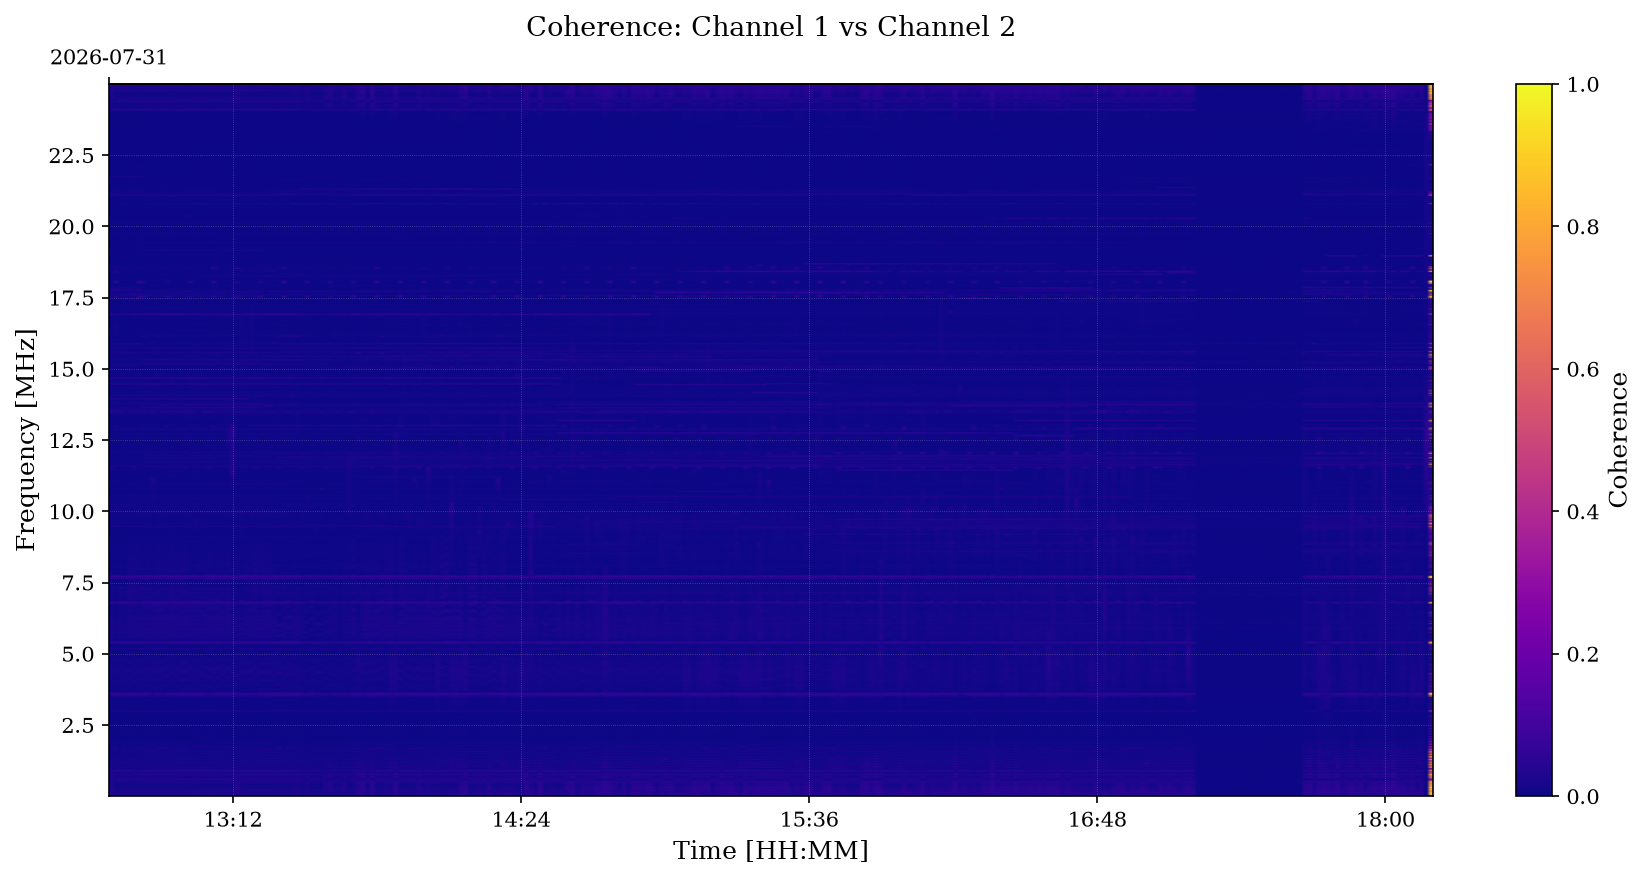
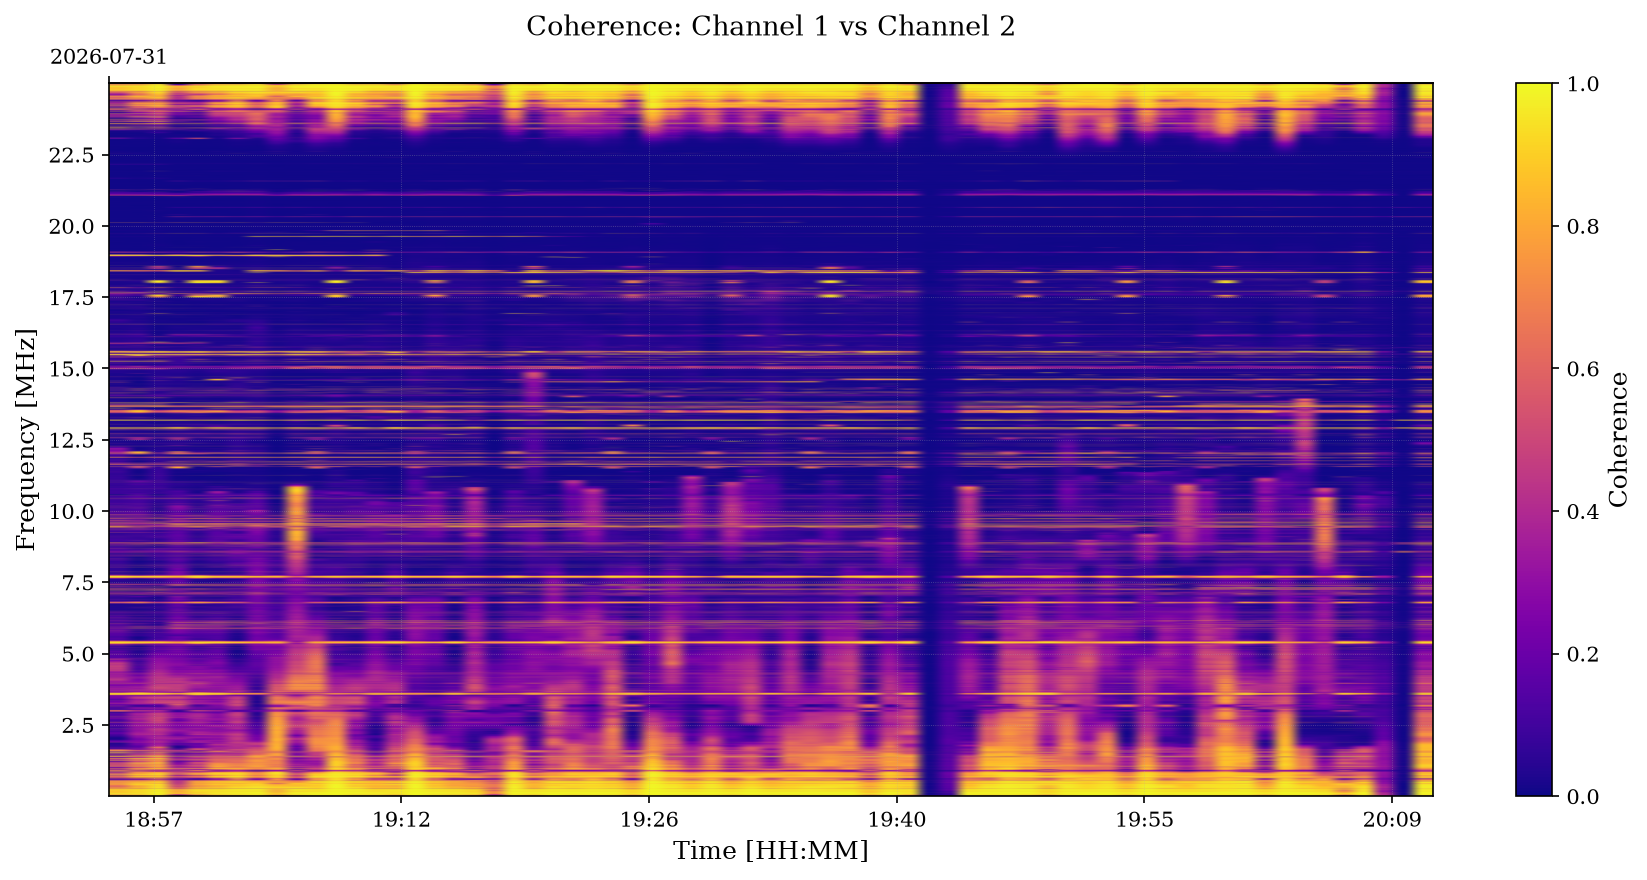
Update diagnostic plotting and processing: increase figure DPI, enable logging in LiveProcessor, refine cache key generation, and adjust coherence calculation comments

diff --git a/sblib/SignalBurner.py b/sblib/SignalBurner.py
@@ -207,19 +207,8 @@ class SignalBurner:
 
     # -- Cache helpers -------
     def _file_cache_key(self, p: Path) -> str:
-        """Unique-per-file cache key.
-
-        Using only ``Path.stem`` is NOT safe here: files coming from
-        different source directories (e.g. separate channels cha1/cha2/cha3)
-        can legitimately share the exact same basename/timestamp (that's
-        even required for pairing them by second). Using the bare stem as a
-        cache key then makes two *different* files collide onto the same
-        cache path, silently returning one channel's cached result for
-        another channel's request. We disambiguate by folding in a short
-        hash of the resolved parent directory.
-        """
-        parent_hash = hashlib.sha1(str(p.resolve().parent).encode()).hexdigest()[:8]
-        return f"{p.stem}_{parent_hash}"
+        """Unique key from the resolved absolute path."""
+        return hashlib.sha1(str(p.resolve()).encode()).hexdigest()[:16]
 
     def get_cache_file(self, h5_path: Path) -> Optional[Path]:
         """Return cache path for a single-file FFT (`.npy`)."""
@@ -236,16 +225,16 @@ class SignalBurner:
         )
 
     def _pair_base_path(self, p1: Path, p2: Path) -> Optional[Path]:
-        """Return base cache path (without extension) for a pair.
-        The actual files will be <base>.npz (full) or <base>_<product>.npy."""
         if not self.use_cache or self.cache_path is None:
             return None
-        keys = sorted([self._file_cache_key(p1), self._file_cache_key(p2)])
+        key1 = self._file_cache_key(p1)
+        key2 = self._file_cache_key(p2)
+        # sort for determinism
+        keys = sorted([key1, key2])
         self.cache_path.mkdir(parents=True, exist_ok=True)
         return self.cache_path / f"{keys[0]}_{keys[1]}_fft{self.fft_size}"
 
     def _full_cache_path(self, p1: Path, p2: Path) -> Optional[Path]:
-        """Path to the combined `.npz` cache file."""
         base = self._pair_base_path(p1, p2)
         return base.with_suffix(".npz") if base else None
 

diff --git a/file_processor.py b/file_processor.py
@@ -171,7 +171,7 @@ class LiveProcessor:
             dataset_name=dataset_name,
             cache_path=cache_dir,
             use_cache=True,
-            show_logs=False,
+            show_logs=True,
         )
         logger.info(
             "SignalBurner engine ready in %.3fs (fft_size=%d, fs=%.3f MHz)",
@@ -254,7 +254,8 @@ class LiveProcessor:
         if len(self.pending[ts_int]) < self.num_channels:
             return False
 
-        # Collect files for all channels (order zgodny z oryginałem)
+        # Collect files for all channels (kolejność zgodna z self.cha_roots:
+        # 0->cha1, 1->cha2, 2->cha3)
         files = []
         timestamps = []
         for ch in range(self.num_channels):
@@ -292,6 +293,7 @@ class LiveProcessor:
 
             for i, j in pair_indices:
                 t0 = time.perf_counter()
+                cache_key = self.sb._full_cache_path(files[i], files[j])
                 res = self.sb.process_pair_all(files[i], files[j])
                 dt = time.perf_counter() - t0
 
@@ -477,7 +479,7 @@ class LiveProcessor:
                     del self.pending[ts_int]
 
                 # 4. Clean sb cache (optional, can be commented out if not needed)
-                removed = self.sb.clean_cache(5)
+                removed = self.sb.clean_cache(2)
                 if removed:
                     logger.debug("Cache cleanup removed %d stale file(s)", removed)
 

diff --git a/diagnosys_plot.py b/diagnosys_plot.py
@@ -30,7 +30,7 @@ plt.rcParams.update(
         "xtick.direction": "out",
         "ytick.direction": "out",
         "legend.fontsize": 10,
-        "figure.dpi": 100,
+        "figure.dpi": 300,
         "savefig.bbox": "tight",
     }
 )
@@ -150,7 +150,9 @@ def plot_spectrogram(
         vmin=vmin,
         vmax=vmax,
         cmap=cmap,
+        interpolation="nearest",
     )
+
     # Shift Y-axis labels by +12.5 MHz so the display reads 0-25 MHz,
     # with clean, evenly-spaced ticks every 2.5 MHz (0, 2.5, 5, ..., 25).
     ax.yaxis.set_major_locator(ticker.MultipleLocator(2.5))
